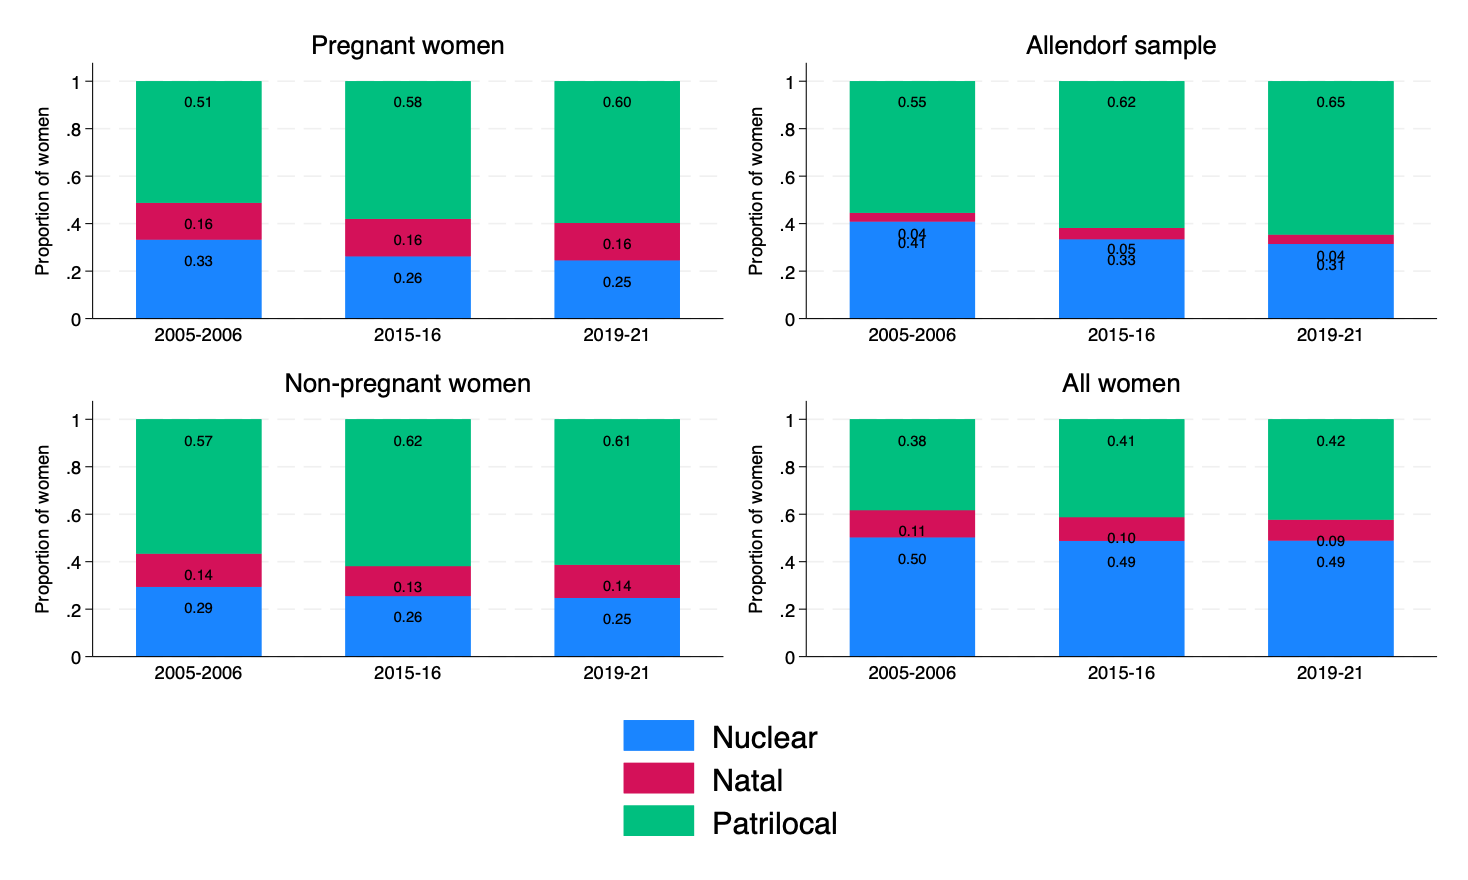
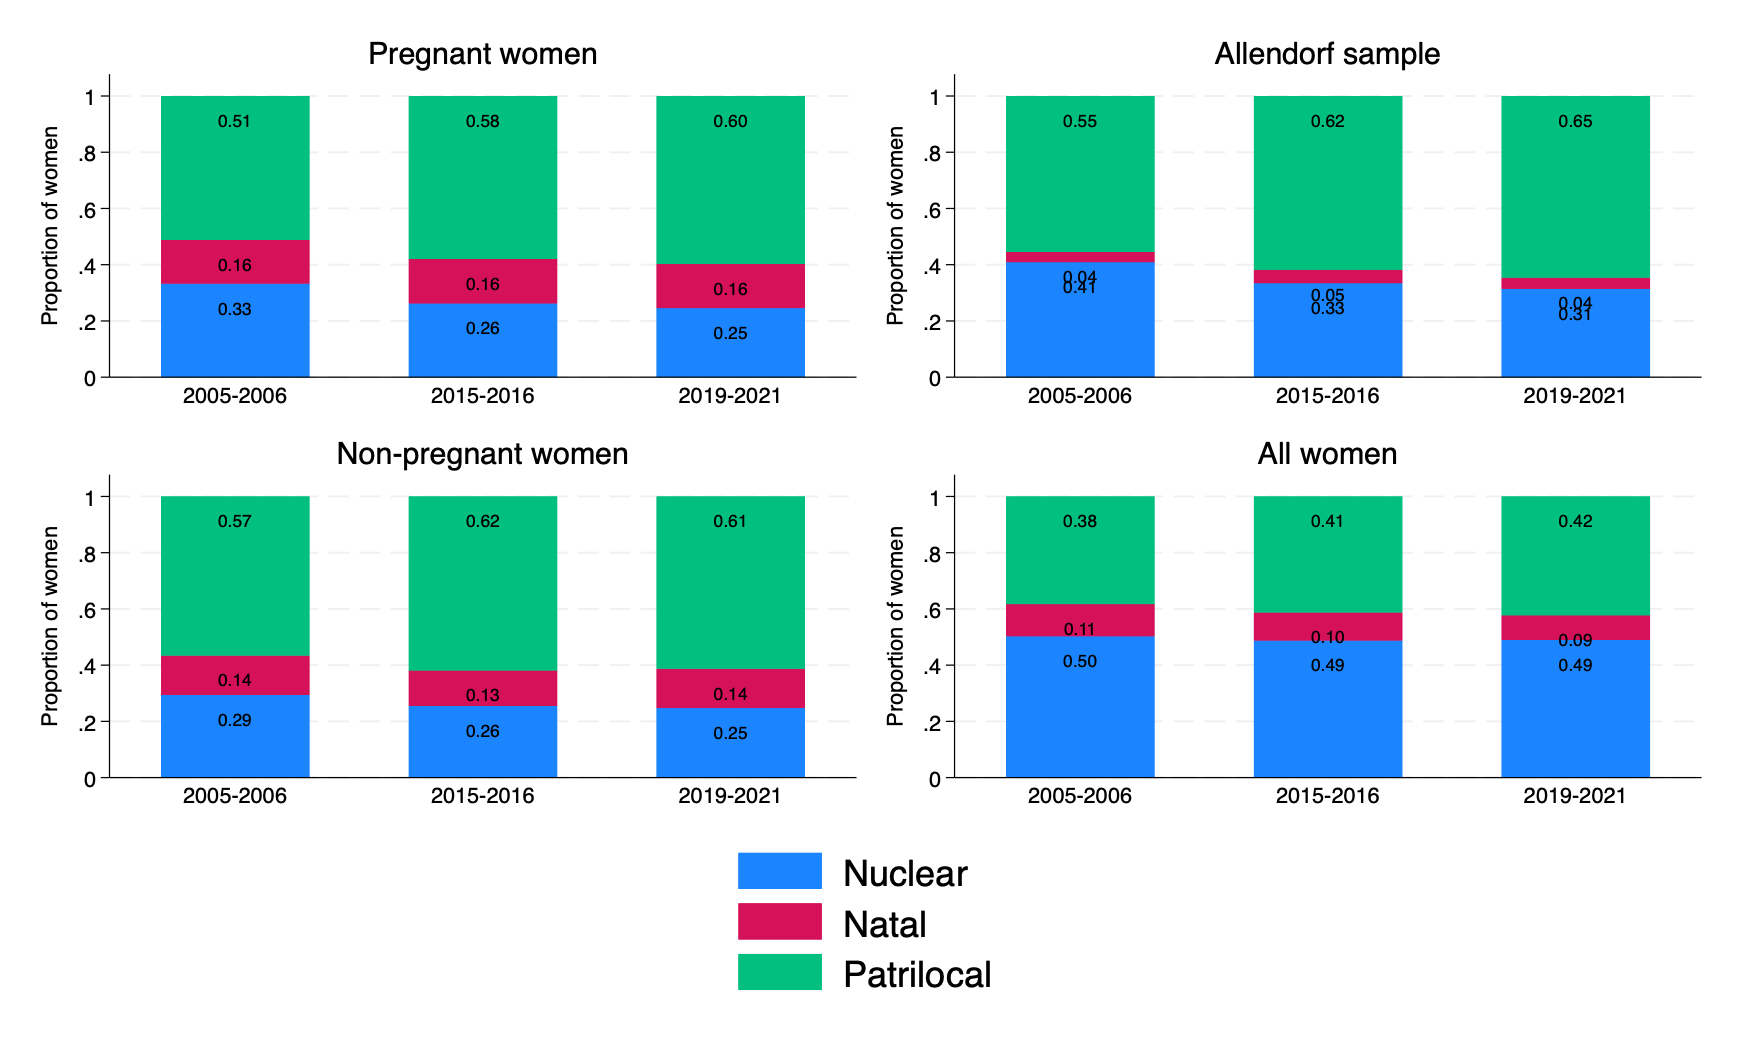
try

diff --git a/tables/interaction_gap_table.tex b/tables/interaction_gap_table.tex
@@ -1,14 +1,18 @@
 \begin{tabular}{lcccc}
 \toprule
- & \multicolumn{1}{c}{\shortstack{2005--2006\\to\\2015--2016}} & \multicolumn{1}{c}{\shortstack{2015--2016\\to\\2019--2021}} & \multicolumn{1}{c}{\shortstack{Stacked\\2005--2006\\to\\2015--2016}} & \multicolumn{1}{c}{\shortstack{Stacked\\2005--2006\\to\\2019--2021}} \\\\
+ & \multicolumn{1}{c}{\shortstack{$\delta$ (Eq.~\ref{eq:tworounds})\\2005--2006 vs.\\2015--2016}} ///           & \multicolumn{1}{c}{\shortstack{$\delta$ (Eq.~\ref{eq:tworounds})\\2015--2016 vs.\\2019--2021}} ///           & \multicolumn{1}{c}{\shortstack{$\delta_4$ (Eq.~\ref{eq:stacked})\\2005--2006 vs.\\2015--2016}} ///           & \multicolumn{1}{c}{\shortstack{$\delta_5$ (Eq.~\ref{eq:stacked})\\2005--2006 vs.\\2019--2021}} \\\\
 \midrule
 Gave birth in a health facility&-0.020&-0.023***&-0.019&-0.041***\\
 &(0.015)&(0.007)&(0.015)&(0.015)\\
+&N = 42899&N = 67869&N = 75010&N = 75010\\
 Had 4+ antenatal visits&0.004&-0.026**&0.001&-0.024\\
 &(0.014)&(0.011)&(0.014)&(0.015)\\
+&N = 42906&N = 67876&N = 75017&N = 75017\\
 No say in own healthcare&-0.106***&0.000&-0.108***&-0.135***\\
 &(0.027)&(0.027)&(0.026)&(0.026)\\
+&N = 8168&N = 6817&N = 11144&N = 11144\\
 No say in visits to family/friends&-0.116***&-0.025&-0.116***&-0.173***\\
 &(0.026)&(0.027)&(0.026)&(0.025)\\
+&N = 8161&N = 6803&N = 11130&N = 11130\\
 \bottomrule
 \end{tabular}